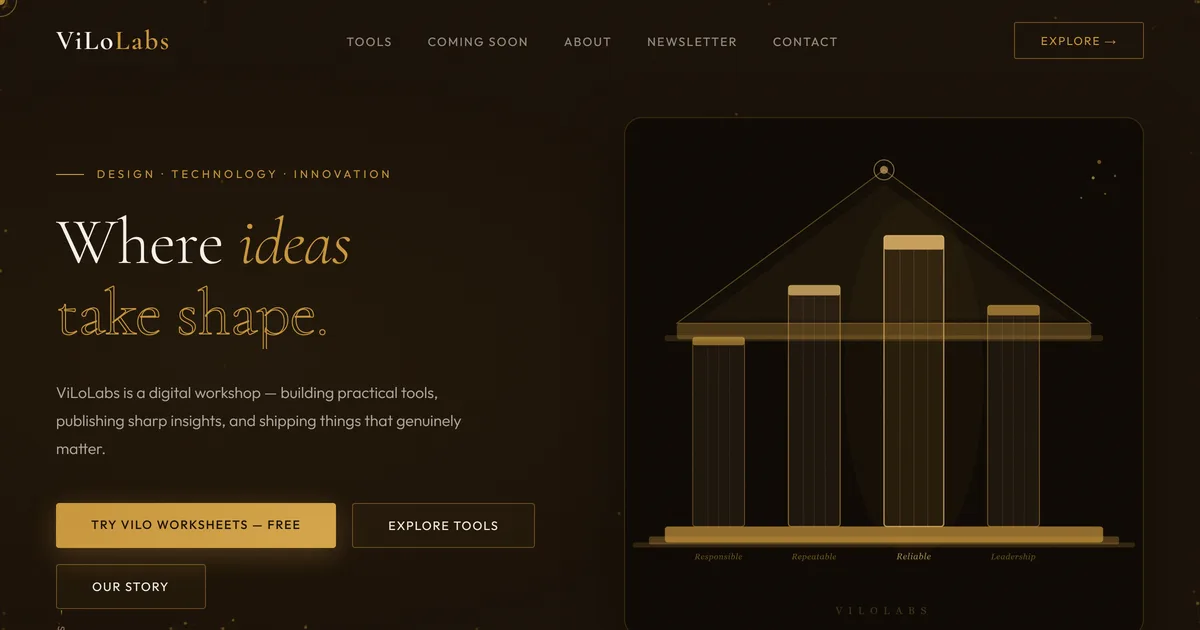
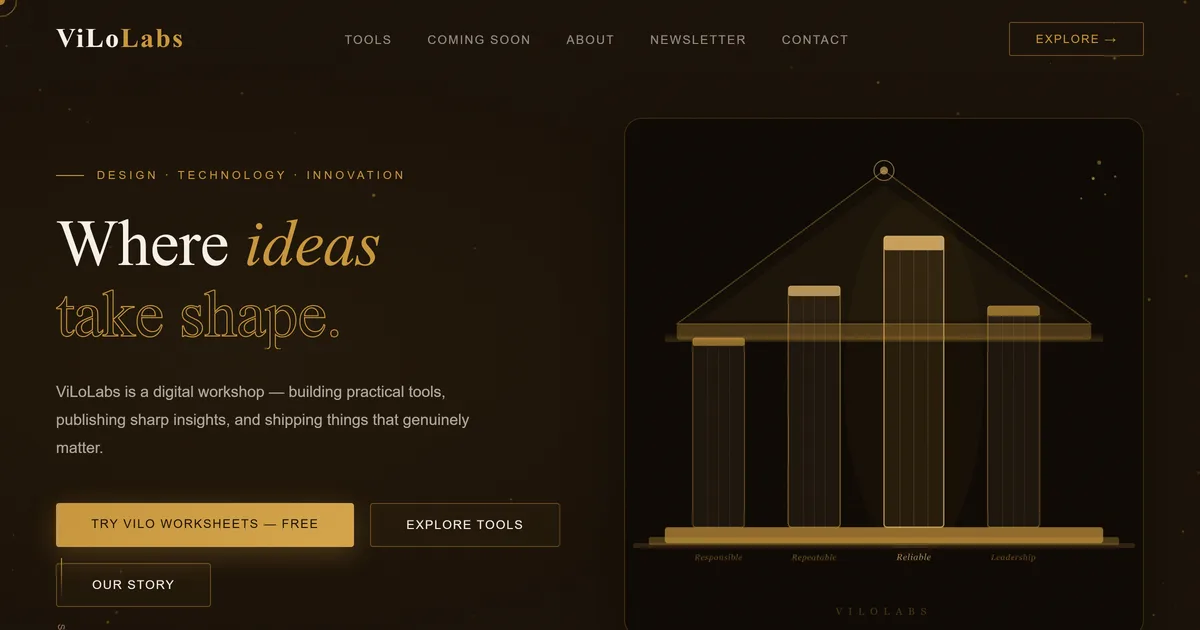
Phase B: wire 16 HTML pages to new per-page OG image snapshots
Every page's <meta property="og:image"> AND <meta name="twitter:image">
now points at its own real-page snapshot (og-*.webp) instead of the
shared generic OG cards (*.jpg). Pages included:

  index.html, about.html, pulse.html, tools.html, worksheet.html,
  8 tool pages (qr-generator, image-to-pdf, pdf-to-image, pdf-to-word,
  merge-pdf, compress-pdf, compress-image, resize-image),
  3 blog posts (gold-prices, petrol-india, petrol-neighbors)

Also expands render-og-images.js to cover the remaining 6 tool pages
(Phase A only did 2 as examples), and re-renders the previously-
committed 3 snapshots that changed slightly since their live pages
were updated (home, pulse, worksheet).

Old JPG OG cards deliberately left in place as fallbacks and NOT
deleted. If any single new WebP fails to serve, the page still degrades
to the JPG version (Facebook / WhatsApp / X will pick up whichever tag
resolves first from cache).

Legal pages (privacy, terms, cookies) and the coming-soon app.html
still use their original JPGs — deliberately out of scope, not worth
rendering per-page snapshots for pages nobody shares.

diff --git a/ViLoLabs/tools/render-og-images.js b/ViLoLabs/tools/render-og-images.js
@@ -40,6 +40,12 @@ const TARGETS = [
   { name: 'tools',                   url: 'https://vilolabs.in/tools' },
   { name: 'tool-qr-generator',       url: 'https://vilolabs.in/tools/qr-generator' },
   { name: 'tool-image-to-pdf',       url: 'https://vilolabs.in/tools/image-to-pdf' },
+  { name: 'tool-pdf-to-image',       url: 'https://vilolabs.in/tools/pdf-to-image' },
+  { name: 'tool-pdf-to-word',        url: 'https://vilolabs.in/tools/pdf-to-word' },
+  { name: 'tool-merge-pdf',          url: 'https://vilolabs.in/tools/merge-pdf' },
+  { name: 'tool-compress-pdf',       url: 'https://vilolabs.in/tools/compress-pdf' },
+  { name: 'tool-compress-image',     url: 'https://vilolabs.in/tools/compress-image' },
+  { name: 'tool-resize-image',       url: 'https://vilolabs.in/tools/resize-image' },
   { name: 'about',                   url: 'https://vilolabs.in/about' },
 ];
 

diff --git a/ViLoLabs/Website HTML/about.html b/ViLoLabs/Website HTML/about.html
@@ -116,11 +116,11 @@ nav{position:sticky;top:0;z-index:500;display:flex;align-items:center;justify-co
 <link rel="canonical" href="https://vilolabs.in/about">
 <meta property="og:url" content="https://vilolabs.in/about">
 <meta name="twitter:card" content="summary_large_image">
-<meta property="og:image" content="https://vilolabs.in/assets/og/about.jpg">
+<meta property="og:image" content="https://vilolabs.in/assets/og/og-about.webp">
 <meta property="og:image:width" content="1200">
 <meta property="og:image:height" content="630">
 <meta property="og:image:alt" content="ViLoLabs — Where ideas take shape">
-<meta name="twitter:image" content="https://vilolabs.in/assets/og/about.jpg">
+<meta name="twitter:image" content="https://vilolabs.in/assets/og/og-about.webp">
 </head>
 <body>
 

diff --git a/ViLoLabs/Website HTML/blog/gold-prices-india-2026.html b/ViLoLabs/Website HTML/blog/gold-prices-india-2026.html
@@ -111,11 +111,11 @@
 <link rel="canonical" href="https://vilolabs.in/blog/gold-prices-india-2026">
 <meta property="og:url" content="https://vilolabs.in/blog/gold-prices-india-2026">
 <meta name="twitter:card" content="summary_large_image">
-<meta property="og:image" content="https://vilolabs.in/assets/og/blog-gold-prices-india-2026.jpg">
+<meta property="og:image" content="https://vilolabs.in/assets/og/og-blog-gold-prices.webp">
 <meta property="og:image:width" content="1200">
 <meta property="og:image:height" content="630">
 <meta property="og:image:alt" content="ViLoLabs — Where ideas take shape">
-<meta name="twitter:image" content="https://vilolabs.in/assets/og/blog-gold-prices-india-2026.jpg">
+<meta name="twitter:image" content="https://vilolabs.in/assets/og/og-blog-gold-prices.webp">
 </head>
 <body>
 

diff --git a/ViLoLabs/Website HTML/blog/petrol-prices-india-2025.html b/ViLoLabs/Website HTML/blog/petrol-prices-india-2025.html
@@ -132,11 +132,11 @@
 <link rel="canonical" href="https://vilolabs.in/blog/petrol-prices-india-2025">
 <meta property="og:url" content="https://vilolabs.in/blog/petrol-prices-india-2025">
 <meta name="twitter:card" content="summary_large_image">
-<meta property="og:image" content="https://vilolabs.in/assets/og/blog-petrol-prices-india-2025.jpg">
+<meta property="og:image" content="https://vilolabs.in/assets/og/og-blog-petrol-india.webp">
 <meta property="og:image:width" content="1200">
 <meta property="og:image:height" content="630">
 <meta property="og:image:alt" content="ViLoLabs — Where ideas take shape">
-<meta name="twitter:image" content="https://vilolabs.in/assets/og/blog-petrol-prices-india-2025.jpg">
+<meta name="twitter:image" content="https://vilolabs.in/assets/og/og-blog-petrol-india.webp">
 </head>
 <body>
 

diff --git a/ViLoLabs/Website HTML/blog/petrol-prices-neighboring-countries-2026.html b/ViLoLabs/Website HTML/blog/petrol-prices-neighboring-countries-2026.html
@@ -104,11 +104,11 @@
 <link rel="canonical" href="https://vilolabs.in/blog/petrol-prices-neighboring-countries-2026">
 <meta property="og:url" content="https://vilolabs.in/blog/petrol-prices-neighboring-countries-2026">
 <meta name="twitter:card" content="summary_large_image">
-<meta property="og:image" content="https://vilolabs.in/assets/og/blog-petrol-prices-neighboring-countries-2026.jpg">
+<meta property="og:image" content="https://vilolabs.in/assets/og/og-blog-petrol-neighbors.webp">
 <meta property="og:image:width" content="1200">
 <meta property="og:image:height" content="630">
 <meta property="og:image:alt" content="ViLoLabs — Where ideas take shape">
-<meta name="twitter:image" content="https://vilolabs.in/assets/og/blog-petrol-prices-neighboring-countries-2026.jpg">
+<meta name="twitter:image" content="https://vilolabs.in/assets/og/og-blog-petrol-neighbors.webp">
 </head>
 <body>
 

diff --git a/ViLoLabs/Website HTML/index.html b/ViLoLabs/Website HTML/index.html
@@ -10,12 +10,12 @@
 <meta property="og:title" content="ViLoLabs — Where Ideas Take Shape">
 <meta property="og:description" content="An independent digital studio building practical tools and publishing sharp insights.">
 <meta property="og:type" content="website">
-<meta property="og:image" content="https://vilolabs.in/assets/og/home.jpg">
+<meta property="og:image" content="https://vilolabs.in/assets/og/og-home.webp">
 <meta property="og:image:width" content="1200">
 <meta property="og:image:height" content="630">
 <meta property="og:image:alt" content="ViLoLabs — Where ideas take shape">
 <meta name="twitter:card" content="summary_large_image">
-<meta name="twitter:image" content="https://vilolabs.in/assets/og/home.jpg">
+<meta name="twitter:image" content="https://vilolabs.in/assets/og/og-home.webp">
 <meta name="twitter:title" content="ViLoLabs — Where Ideas Take Shape">
 <meta name="twitter:description" content="An independent digital studio building practical tools and publishing sharp insights.">
 <!-- Structured data: Organization + WebSite (powers Google knowledge panel + sitelinks).

diff --git a/ViLoLabs/Website HTML/pulse.html b/ViLoLabs/Website HTML/pulse.html
@@ -401,11 +401,11 @@
 <link rel="canonical" href="https://vilolabs.in/pulse">
 <meta property="og:url" content="https://vilolabs.in/pulse">
 <meta name="twitter:card" content="summary_large_image">
-<meta property="og:image" content="https://vilolabs.in/assets/og/pulse.jpg">
+<meta property="og:image" content="https://vilolabs.in/assets/og/og-pulse.webp">
 <meta property="og:image:width" content="1200">
 <meta property="og:image:height" content="630">
 <meta property="og:image:alt" content="ViLoLabs — Where ideas take shape">
-<meta name="twitter:image" content="https://vilolabs.in/assets/og/pulse.jpg">
+<meta name="twitter:image" content="https://vilolabs.in/assets/og/og-pulse.webp">
 </head>
 <body>
 

diff --git a/ViLoLabs/Website HTML/tools.html b/ViLoLabs/Website HTML/tools.html
@@ -44,11 +44,11 @@
 <script src="/assets/db.js?v=fde68ebc"></script>
 <link rel="canonical" href="https://vilolabs.in/tools">
 <meta property="og:url" content="https://vilolabs.in/tools">
-<meta property="og:image" content="https://vilolabs.in/assets/og/tools.jpg">
+<meta property="og:image" content="https://vilolabs.in/assets/og/og-tools.webp">
 <meta property="og:image:width" content="1200">
 <meta property="og:image:height" content="630">
 <meta property="og:image:alt" content="ViLoLabs — Where ideas take shape">
-<meta name="twitter:image" content="https://vilolabs.in/assets/og/tools.jpg">
+<meta name="twitter:image" content="https://vilolabs.in/assets/og/og-tools.webp">
 <script type="application/ld+json">
 {"@context":"https://schema.org","@type":"CollectionPage","name":"ViLo Tools — Free Online Browser Tools","url":"https://vilolabs.in/tools","description":"Free, private tools that run in your browser — no sign up, no watermark, files never leave your device.","isPartOf":{"@type":"WebSite","name":"ViLoLabs","url":"https://vilolabs.in/"},"mainEntity":{"@type":"ItemList","itemListElement":[
 {"@type":"ListItem","position":1,"name":"Image to PDF","url":"https://vilolabs.in/tools/image-to-pdf"},

diff --git a/ViLoLabs/Website HTML/tools/compress-image.html b/ViLoLabs/Website HTML/tools/compress-image.html
@@ -35,11 +35,11 @@
 <link rel="canonical" href="https://vilolabs.in/tools/compress-image">
 <meta property="og:url" content="https://vilolabs.in/tools/compress-image">
 <meta name="twitter:card" content="summary_large_image">
-<meta property="og:image" content="https://vilolabs.in/assets/og/tool-compress-image.jpg">
+<meta property="og:image" content="https://vilolabs.in/assets/og/og-tool-compress-image.webp">
 <meta property="og:image:width" content="1200">
 <meta property="og:image:height" content="630">
 <meta property="og:image:alt" content="ViLoLabs — Where ideas take shape">
-<meta name="twitter:image" content="https://vilolabs.in/assets/og/tool-compress-image.jpg">
+<meta name="twitter:image" content="https://vilolabs.in/assets/og/og-tool-compress-image.webp">
 <script type="application/ld+json">
 {"@context":"https://schema.org","@type":"BreadcrumbList","itemListElement":[{"@type":"ListItem","position":1,"name":"Home","item":"https://vilolabs.in/"},{"@type":"ListItem","position":2,"name":"Tools","item":"https://vilolabs.in/tools"},{"@type":"ListItem","position":3,"name":"Compress Image","item":"https://vilolabs.in/tools/compress-image"}]}
 </script>

diff --git a/ViLoLabs/Website HTML/tools/compress-pdf.html b/ViLoLabs/Website HTML/tools/compress-pdf.html
@@ -49,11 +49,11 @@
 <link rel="canonical" href="https://vilolabs.in/tools/compress-pdf">
 <meta property="og:url" content="https://vilolabs.in/tools/compress-pdf">
 <meta name="twitter:card" content="summary_large_image">
-<meta property="og:image" content="https://vilolabs.in/assets/og/tool-compress-pdf.jpg">
+<meta property="og:image" content="https://vilolabs.in/assets/og/og-tool-compress-pdf.webp">
 <meta property="og:image:width" content="1200">
 <meta property="og:image:height" content="630">
 <meta property="og:image:alt" content="ViLoLabs — Where ideas take shape">
-<meta name="twitter:image" content="https://vilolabs.in/assets/og/tool-compress-pdf.jpg">
+<meta name="twitter:image" content="https://vilolabs.in/assets/og/og-tool-compress-pdf.webp">
 <script type="application/ld+json">
 {"@context":"https://schema.org","@type":"BreadcrumbList","itemListElement":[{"@type":"ListItem","position":1,"name":"Home","item":"https://vilolabs.in/"},{"@type":"ListItem","position":2,"name":"Tools","item":"https://vilolabs.in/tools"},{"@type":"ListItem","position":3,"name":"Compress PDF","item":"https://vilolabs.in/tools/compress-pdf"}]}
 </script>

diff --git a/ViLoLabs/Website HTML/tools/image-to-pdf.html b/ViLoLabs/Website HTML/tools/image-to-pdf.html
@@ -26,11 +26,11 @@
 <link rel="canonical" href="https://vilolabs.in/tools/image-to-pdf">
 <meta property="og:url" content="https://vilolabs.in/tools/image-to-pdf">
 <meta name="twitter:card" content="summary_large_image">
-<meta property="og:image" content="https://vilolabs.in/assets/og/tool-image-to-pdf.jpg">
+<meta property="og:image" content="https://vilolabs.in/assets/og/og-tool-image-to-pdf.webp">
 <meta property="og:image:width" content="1200">
 <meta property="og:image:height" content="630">
 <meta property="og:image:alt" content="ViLoLabs — Where ideas take shape">
-<meta name="twitter:image" content="https://vilolabs.in/assets/og/tool-image-to-pdf.jpg">
+<meta name="twitter:image" content="https://vilolabs.in/assets/og/og-tool-image-to-pdf.webp">
 <script type="application/ld+json">
 {"@context":"https://schema.org","@type":"BreadcrumbList","itemListElement":[{"@type":"ListItem","position":1,"name":"Home","item":"https://vilolabs.in/"},{"@type":"ListItem","position":2,"name":"Tools","item":"https://vilolabs.in/tools"},{"@type":"ListItem","position":3,"name":"Image to PDF","item":"https://vilolabs.in/tools/image-to-pdf"}]}
 </script>

diff --git a/ViLoLabs/Website HTML/tools/merge-pdf.html b/ViLoLabs/Website HTML/tools/merge-pdf.html
@@ -39,11 +39,11 @@
 <link rel="canonical" href="https://vilolabs.in/tools/merge-pdf">
 <meta property="og:url" content="https://vilolabs.in/tools/merge-pdf">
 <meta name="twitter:card" content="summary_large_image">
-<meta property="og:image" content="https://vilolabs.in/assets/og/tool-merge-pdf.jpg">
+<meta property="og:image" content="https://vilolabs.in/assets/og/og-tool-merge-pdf.webp">
 <meta property="og:image:width" content="1200">
 <meta property="og:image:height" content="630">
 <meta property="og:image:alt" content="ViLoLabs — Where ideas take shape">
-<meta name="twitter:image" content="https://vilolabs.in/assets/og/tool-merge-pdf.jpg">
+<meta name="twitter:image" content="https://vilolabs.in/assets/og/og-tool-merge-pdf.webp">
 <script type="application/ld+json">
 {"@context":"https://schema.org","@type":"BreadcrumbList","itemListElement":[{"@type":"ListItem","position":1,"name":"Home","item":"https://vilolabs.in/"},{"@type":"ListItem","position":2,"name":"Tools","item":"https://vilolabs.in/tools"},{"@type":"ListItem","position":3,"name":"Merge PDF","item":"https://vilolabs.in/tools/merge-pdf"}]}
 </script>